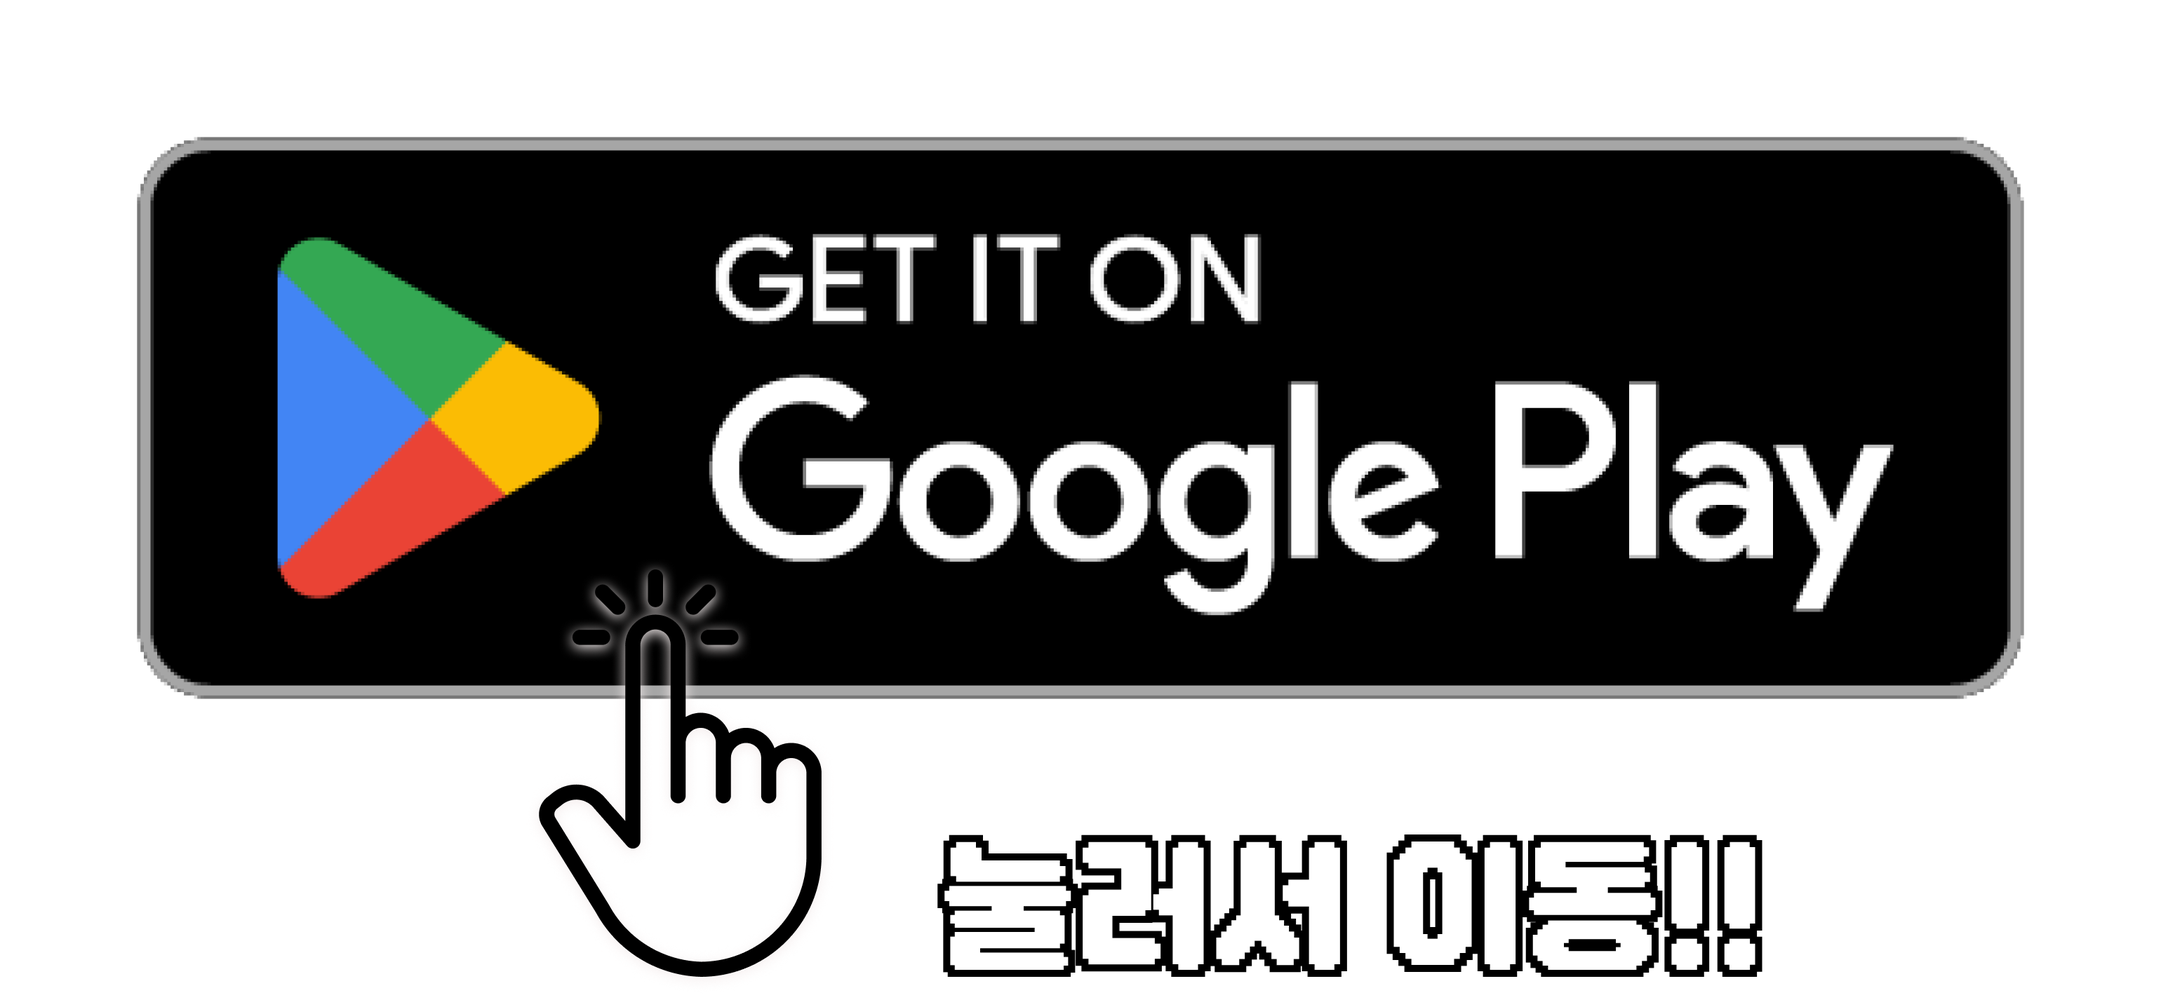
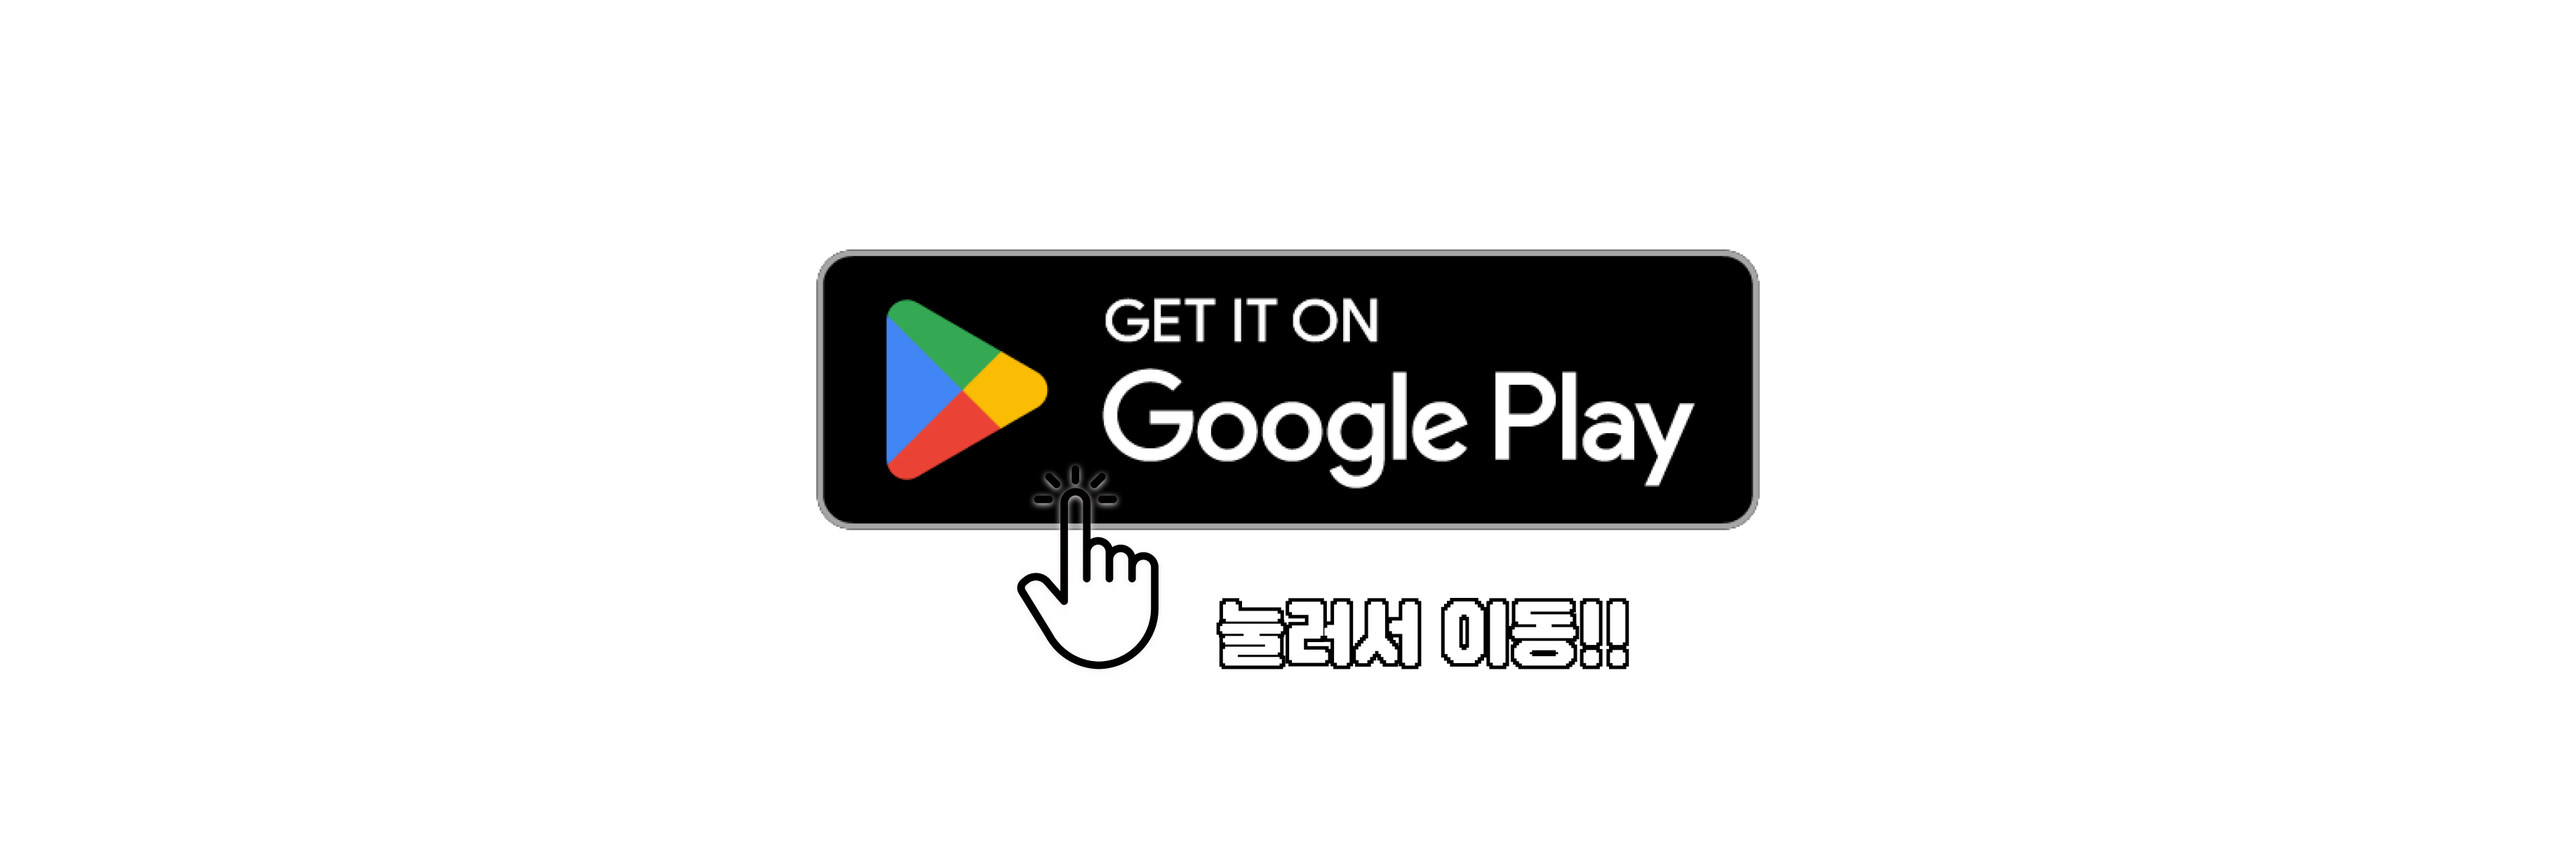
docs: 리드미 배치 수정

diff --git a/README.md b/README.md
@@ -13,4 +13,7 @@
 ## 🚶🏻 추리와 발걸음의 만남
 나아가는 현실 세계를 누비며 진행되는 추리 게임입니다. 게임을 시작하면, 당신 주변 어딘가의 사진이 제공됩니다. 사진이 알쏭달쏭하여 그곳이 어딘지 알아맞히기 어렵겠지만, 우선 발걸음을 옮겨보세요.
 
+
+<a href="https://play.google.com/store/apps/details?id=com.now.naaga&pcampaignid=web_share"><img src="etc/images/google play store.png" width="50%" /></a>
+
 ![상세 페이지](etc/images/service%20intro.png)
